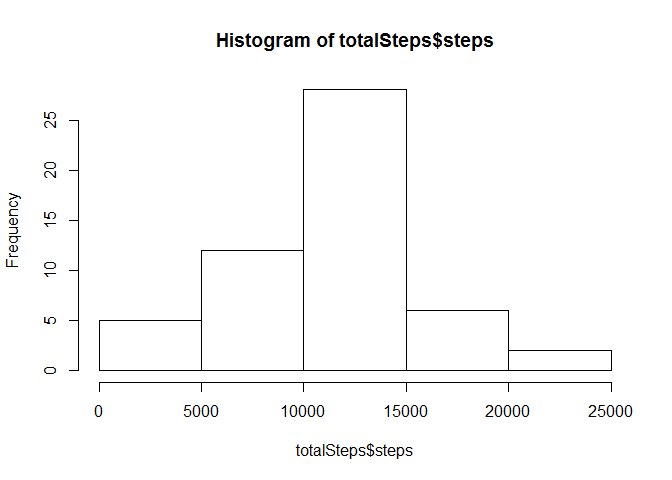
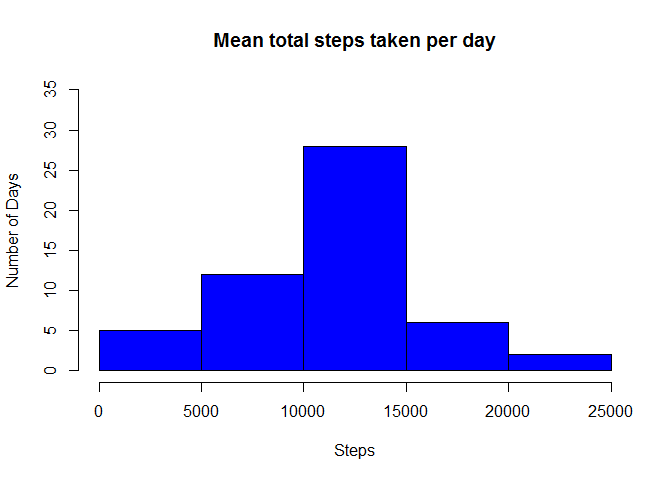
Step 3 complete.

diff --git a/PA1_template.html b/PA1_template.html
@@ -127,9 +127,14 @@ walkdata &lt;- read.csv(&quot;activity.csv&quot;)</code></pre>
 </div>
 <div id="what-is-the-mean-total-number-of-steps-taken-per-day" class="section level2">
 <h2>What is the mean total number of steps taken per day?</h2>
-<pre class="r"><code>totalSteps &lt;- aggregate(steps ~ date, data = walkdata, sum, na.rm = TRUE)
-hist(totalSteps$steps)</code></pre>
[1 lines of base64/hex data omitted]
+<pre class="r"><code>totalSteps &lt;- aggregate(steps~date, data=walkdata, sum, na.rm=TRUE)
+hist(totalSteps$steps, 
+     main=&quot;Mean total steps taken per day&quot;, 
+     xlab=&quot;Steps&quot;, 
+     ylab=&quot;Number of Days&quot;, 
+     ylim=c(0,35),
+     col=&quot;blue&quot;)</code></pre>
[1 lines of base64/hex data omitted]
 <pre class="r"><code>meanSteps &lt;- mean(totalSteps$steps)
 medianSteps &lt;- median(totalSteps$steps)</code></pre>
 <ul>
@@ -139,10 +144,10 @@ medianSteps &lt;- median(totalSteps$steps)</code></pre>
 </div>
 <div id="what-is-the-average-daily-activity-pattern" class="section level2">
 <h2>What is the average daily activity pattern?</h2>
-<pre class="r"><code>stepsToInterval &lt;- aggregate(steps ~ interval, data = walkdata, mean, na.rm = TRUE)
-plot(steps ~ interval, data = stepsToInterval, type = &quot;l&quot;)</code></pre>
+<pre class="r"><code>stepsToInterval &lt;- aggregate(steps~interval, data=walkdata, mean, na.rm=TRUE)
+plot(steps~interval,data=stepsToInterval,type=&quot;l&quot;)</code></pre>
[1 lines of base64/hex data omitted]
-<pre class="r"><code>max5Minute &lt;- stepsToInterval[which.max(stepsToInterval$steps), ]$interval</code></pre>
+<pre class="r"><code>max5Minute &lt;- stepsToInterval[which.max(stepsToInterval$steps),]$interval</code></pre>
 <ul>
 <li>The 5-minute interval which on average across all the days in the dataset, contains the maximum number of steps is: 835</li>
 </ul>
@@ -157,24 +162,36 @@ plot(steps ~ interval, data = stepsToInterval, type = &quot;l&quot;)</code></pre
 allTimeSlots &lt;- unique(walkdata$interval)
 newdata &lt;- walkdata
 
-## Set missing data to the average number of steps for that time slot where
-## there is not missing data This strategy is the mean for that 5-minute
-## interval
+## Set missing data to the average number of steps for that time slot
+## where there is not missing data
+## This strategy is the mean for that 5-minute interval
 setMissingData &lt;- function(timeSlot) {
-    newdata[which(walkdata$interval == timeSlot &amp; is.na(walkdata$steps)), ]$steps &lt;&lt;- mean(walkdata[which(walkdata$interval == 
-        timeSlot &amp; !is.na(walkdata$steps)), ]$steps)
+    newdata[which(walkdata$interval==timeSlot &amp; is.na(walkdata$steps)), ]$steps &lt;&lt;- 
+        mean(walkdata[which(walkdata$interval==timeSlot &amp; !is.na(walkdata$steps)), ]$steps)
 }
 
 lapply(allTimeSlots, setMissingData)</code></pre>
-<pre class="r"><code>totalNewSteps &lt;- aggregate(steps ~ date, data = newdata, sum, na.rm = TRUE)
-hist(totalNewSteps$steps)</code></pre>
[1 lines of base64/hex data omitted]
+<pre class="r"><code>totalNewSteps &lt;- aggregate(steps~date, data=newdata, sum, na.rm=TRUE)
+hist(totalNewSteps$steps, 
+     main=&quot;Mean total steps taken per day (with NA values imputed)&quot;, 
+     xlab=&quot;Steps&quot;, 
+     ylab=&quot;Number of Days&quot;, 
+     ylim=c(0,35),
+     col=&quot;green&quot;)</code></pre>
[1 lines of base64/hex data omitted]
 <pre class="r"><code>meanNewSteps &lt;- mean(totalNewSteps$steps)
 medianNewSteps &lt;- median(totalNewSteps$steps)</code></pre>
 <ul>
 <li>The imputed mean of the total number of steps taken per day is: 10766.2</li>
 <li>The imputed median of the total number of steps taken per day is: 10766.2</li>
 </ul>
+</div>
+<div id="do-these-values-differ-from-the-estimates-from-the-first-part-of-the-assignment" class="section level2">
+<h2>Do these values differ from the estimates from the first part of the assignment?</h2>
+</div>
+<div id="what-is-the-impact-of-imputing-missing-data-on-the-estimates-of-the-total-daily-number-of-steps" class="section level2">
+<h2>What is the impact of imputing missing data on the estimates of the total daily number of steps?</h2>
+<p>As can be seen by comparing the two histograms, the impact of imputing values based on averages per day is that the number of days with a step count between 10,000 and 15,000 steps has increased to over 35 - whereas before imputing the values, the number of days in this range was below 30. The mean number of steps has not changes and this is due to the algortihm making use of the mean number of steps to impute values. However the median has increased in line with an increase in the total number of steps.</p>
 </div>
 <div id="are-there-differences-in-activity-patterns-between-weekdays-and-weekends" class="section level2">
 <h2>Are there differences in activity patterns between weekdays and weekends?</h2>

diff --git a/PA1_template.md b/PA1_template.md
@@ -14,8 +14,13 @@ walkdata <- read.csv("activity.csv")
 ## What is the mean total number of steps taken per day?
 
 ```r
-totalSteps <- aggregate(steps ~ date, data = walkdata, sum, na.rm = TRUE)
-hist(totalSteps$steps)
+totalSteps <- aggregate(steps~date, data=walkdata, sum, na.rm=TRUE)
+hist(totalSteps$steps, 
+     main="Mean total steps taken per day", 
+     xlab="Steps", 
+     ylab="Number of Days", 
+     ylim=c(0,35),
+     col="blue")
 ```
 
 ![](PA1_template_files/figure-html/unnamed-chunk-2-1.png)<!-- -->
@@ -32,15 +37,15 @@ medianSteps <- median(totalSteps$steps)
 ## What is the average daily activity pattern?
 
 ```r
-stepsToInterval <- aggregate(steps ~ interval, data = walkdata, mean, na.rm = TRUE)
-plot(steps ~ interval, data = stepsToInterval, type = "l")
+stepsToInterval <- aggregate(steps~interval, data=walkdata, mean, na.rm=TRUE)
+plot(steps~interval,data=stepsToInterval,type="l")
 ```
 
 ![](PA1_template_files/figure-html/unnamed-chunk-3-1.png)<!-- -->
 
 
 ```r
-max5Minute <- stepsToInterval[which.max(stepsToInterval$steps), ]$interval
+max5Minute <- stepsToInterval[which.max(stepsToInterval$steps),]$interval
 ```
 
 * The 5-minute interval which on average across all the days in the dataset, contains the maximum number of steps is: 835
@@ -59,12 +64,12 @@ totalMissing <- sum(is.na(walkdata$steps))
 allTimeSlots <- unique(walkdata$interval)
 newdata <- walkdata
 
-## Set missing data to the average number of steps for that time slot where
-## there is not missing data This strategy is the mean for that 5-minute
-## interval
+## Set missing data to the average number of steps for that time slot
+## where there is not missing data
+## This strategy is the mean for that 5-minute interval
 setMissingData <- function(timeSlot) {
-    newdata[which(walkdata$interval == timeSlot & is.na(walkdata$steps)), ]$steps <<- mean(walkdata[which(walkdata$interval == 
-        timeSlot & !is.na(walkdata$steps)), ]$steps)
+    newdata[which(walkdata$interval==timeSlot & is.na(walkdata$steps)), ]$steps <<- 
+        mean(walkdata[which(walkdata$interval==timeSlot & !is.na(walkdata$steps)), ]$steps)
 }
 
 lapply(allTimeSlots, setMissingData)
@@ -72,8 +77,13 @@ lapply(allTimeSlots, setMissingData)
 
 
 ```r
-totalNewSteps <- aggregate(steps ~ date, data = newdata, sum, na.rm = TRUE)
-hist(totalNewSteps$steps)
+totalNewSteps <- aggregate(steps~date, data=newdata, sum, na.rm=TRUE)
+hist(totalNewSteps$steps, 
+     main="Mean total steps taken per day (with NA values imputed)", 
+     xlab="Steps", 
+     ylab="Number of Days", 
+     ylim=c(0,35),
+     col="green")
 ```
 
 ![](PA1_template_files/figure-html/unnamed-chunk-7-1.png)<!-- -->
@@ -87,6 +97,20 @@ medianNewSteps <- median(totalNewSteps$steps)
     10766.2
 * The imputed median of the total number of steps taken per day is: 
     10766.2
+
+## Do these values differ from the estimates from the first part of the assignment? 
+## What is the impact of imputing missing data on the estimates of the total daily number of steps?
+As can be seen by comparing the two histograms, the impact of imputing values 
+based on averages per day is that the number of days with a step count between 
+10,000 and 15,000 steps has increased to over 35 - whereas before imputing the 
+values, the number of days in this range was below 30. The mean number of steps 
+has not changes and this is due to the algortihm making use of the mean number 
+of steps to impute values. However the median has increased in line with an 
+increase in the total number of steps.
+
+
+
+
 
 
 ## Are there differences in activity patterns between weekdays and weekends?
